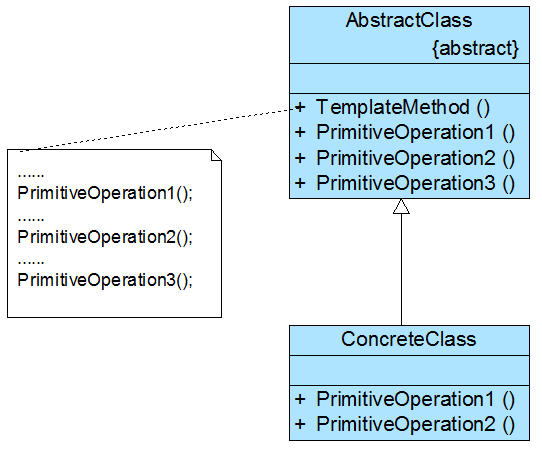
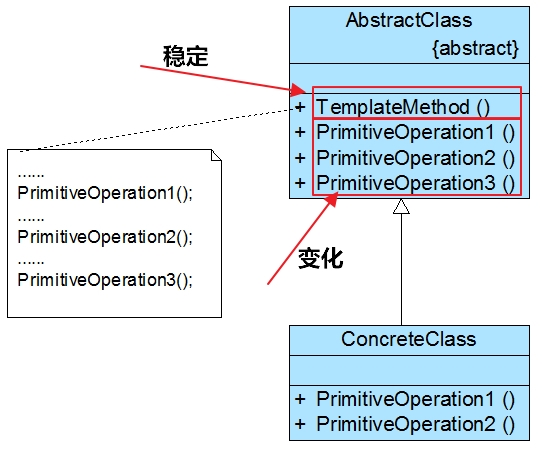
Modified Template Method

diff --git a/DesignPattern/code/13.1_TemplateMethod.cpp b/DesignPattern/code/13.1_TemplateMethod.cpp
@@ -1,0 +1,111 @@
+/*
+ * @Author: your name
+ * @Date: 2020-12-24 22:42:04
+ * @LastEditTime: 2020-12-24 23:05:43
+ * @LastEditors: Please set LastEditors
+ * @Description: In User Settings Edit
+ */
+#include <iostream>
+#include <stdlib.h>
+
+using namespace std;
+
+/**
+ * The Abstract Class defines a template method that contains a skeleton of some
+ * algorithm, composed of calls to (usually) abstract primitive operations.
+ *
+ * Concrete subclasses should implement these operations, but leave the template
+ * method itself intact.
+ */
+class AbstractClass {
+  /**
+   * The template method defines the skeleton of an algorithm.
+   */
+ public:
+  void TemplateMethod() const {
+    this->BaseOperation1();
+    this->RequiredOperations1();
+    this->BaseOperation2();
+    this->Hook1();
+    this->RequiredOperation2();
+    this->BaseOperation3();
+    this->Hook2();
+  }
+  /**
+   * These operations already have implementations.
+   */
+ protected:
+  void BaseOperation1() const {
+    std::cout << "AbstractClass says: I am doing the bulk of the work\n";
+  }
+  void BaseOperation2() const {
+    std::cout << "AbstractClass says: But I let subclasses override some operations\n";
+  }
+  void BaseOperation3() const {
+    std::cout << "AbstractClass says: But I am doing the bulk of the work anyway\n";
+  }
+  /**
+   * These operations have to be implemented in subclasses.
+   */
+  virtual void RequiredOperations1() const = 0;
+  virtual void RequiredOperation2() const = 0;
+  /**
+   * These are "hooks." Subclasses may override them, but it's not mandatory
+   * since the hooks already have default (but empty) implementation. Hooks
+   * provide additional extension points in some crucial places of the
+   * algorithm.
+   */
+  virtual void Hook1() const {}
+  virtual void Hook2() const {}
+};
+/**
+ * Concrete classes have to implement all abstract operations of the base class.
+ * They can also override some operations with a default implementation.
+ */
+class ConcreteClass1 : public AbstractClass {
+ protected:
+  void RequiredOperations1() const override {
+    std::cout << "ConcreteClass1 says: Implemented Operation1\n";
+  }
+  void RequiredOperation2() const override {
+    std::cout << "ConcreteClass1 says: Implemented Operation2\n";
+  }
+};
+/**
+ * Usually, concrete classes override only a fraction of base class' operations.
+ */
+class ConcreteClass2 : public AbstractClass {
+ protected:
+  void RequiredOperations1() const override {
+    std::cout << "ConcreteClass2 says: Implemented Operation1\n";
+  }
+  void RequiredOperation2() const override {
+    std::cout << "ConcreteClass2 says: Implemented Operation2\n";
+  }
+  void Hook1() const override {
+    std::cout << "ConcreteClass2 says: Overridden Hook1\n";
+  }
+};
+/**
+ * The client code calls the template method to execute the algorithm. Client
+ * code does not have to know the concrete class of an object it works with, as
+ * long as it works with objects through the interface of their base class.
+ */
+void ClientCode(AbstractClass *class_) {
+  // ...
+  class_->TemplateMethod();
+  // ...
+}
+
+int main() {
+  std::cout << "Same client code can work with different subclasses:\n";
+  ConcreteClass1 *concreteClass1 = new ConcreteClass1;
+  ClientCode(concreteClass1);
+  std::cout << "\n";
+  std::cout << "Same client code can work with different subclasses:\n";
+  ConcreteClass2 *concreteClass2 = new ConcreteClass2;
+  ClientCode(concreteClass2);
+  delete concreteClass1;
+  delete concreteClass2;
+  return 0;
+}

diff --git a/DesignPattern/code/13_Template.cpp b/DesignPattern/code/13_Template.cpp
@@ -1,13 +1,13 @@
 /*
  * @Author: JohnJeep
  * @Date: 2020-09-16 11:39:23
- * @LastEditTime: 2020-09-16 12:07:19
+ * @LastEditTime: 2020-12-24 22:59:20
  * @LastEditors: Please set LastEditors
  * @Description: 模板模式：父类的抽象类定义方法，在子类中去实现
  * 
   */
-#include <iostream>
 #include <cstdio>
+#include <iostream>
 
 using namespace std;
 
@@ -18,10 +18,16 @@ private:
 public:
     AbstactAnimal(/* args */) {}
     virtual ~AbstactAnimal() {}
+
+    // 可变的部分，需要子类中实现
     virtual void flying() = 0;
     virtual void running() = 0;
 
-    void action()   // 模板函数把业务结点确定好了
+    /**
+   * The template method defines the skeleton of an algorithm.
+   *  stable part.
+   */
+    void action() // 模板函数把业务结点确定好了
     {
         flying();
         running();
@@ -35,6 +41,7 @@ private:
 public:
     Bird(/* args */) {}
     ~Bird() {}
+
     virtual void flying()
     {
         cout << "I am bird, I am flying" << endl;
@@ -42,7 +49,7 @@ public:
     virtual void running()
     {
         cout << "I am bird, I am running" << endl;
-    }    
+    }
 };
 
 class Mammal : public AbstactAnimal
@@ -52,6 +59,7 @@ private:
 public:
     Mammal(/* args */) {}
     ~Mammal() {}
+
     virtual void running()
     {
         cout << "I am lion, I am running" << endl;
@@ -59,19 +67,18 @@ public:
     virtual void flying()
     {
         cout << "I am lion, I am flying" << endl;
-    }    
+    }
 };
 
 int main(int argc, char *argv[])
 {
-    AbstactAnimal* parrot = new Bird;
-    parrot->action();   // 直接调用抽象类中的模板函数
+    AbstactAnimal *parrot = new Bird;
+    parrot->action(); // 直接调用抽象类中的模板函数
     delete parrot;
 
-    AbstactAnimal* lion = new Mammal;
+    AbstactAnimal *lion = new Mammal;
     lion->action();
     delete lion;
 
-    
     return 0;
 }

diff --git a/DesignPattern/DesignPattern.md b/DesignPattern/DesignPattern.md
@@ -1,14 +1,14 @@
 <!--
  * @Author: JohnJeep
  * @Date: 2020-08-06 22:20:12
- * @LastEditTime: 2020-12-22 22:00:19
+ * @LastEditTime: 2020-12-24 22:53:52
  * @LastEditors: Please set LastEditors
  * @Description: 设计模式学习
 -->
 <!-- TOC -->
 
 - [0.1. 参考](#01-参考)
-- [0.2. 思考](#02-思考)
+- [## 0.2. 思考](#-02-思考)
 - [0.3. 设计模式概括](#03-设计模式概括)
 - [0.4. 设计模式原则](#04-设计模式原则)
 - [0.5. 创建型模式](#05-创建型模式)
@@ -43,6 +43,8 @@
 ## 0.1. 参考
 - [Wiki解释设计模式](https://en.wikipedia.org/wiki/Software_design_pattern)：具有权威性和系统性。
 - [设计模式：可复用面向对象软件的基础](https://en.wikipedia.org/wiki/Design_Patterns)：Wiki中关于GOF这本设计模式数据的描述，很有权威性。
+- [GoF Design Patterns reference](http://w3sdesign.com/index0100.php): Learning Object-Oriented Design & Programming。
+- [Design Patterns](https://refactoring.guru/design-patterns): 这是一本关于设计模式及其背后原则的电子书籍。比较详细的介绍了设计模式的用法，很通俗易懂。
 - [史上最全设计模式导学目录（完整版）](https://blog.csdn.net/lovelion/article/details/17517213)：推荐指数五颗星；刘伟老师力作，讲的非常好，通俗易懂，而且举例的应用场景也非常恰当。
 - [图说设计模式](https://design-patterns.readthedocs.io/zh_CN/latest/#) 推荐指数四颗星；利用许多的图例去描述每一种设计模式的过程，值得参考学习。
 - [Github: 学习并理解 23 种设计模式](https://github.com/xietao3/Study-Plan/tree/master/DesignPatterns) 推荐指数四颗星；Github上笔者记录自己学习设计模式的笔记。
@@ -53,17 +55,19 @@
 
 
 ## 0.2. 思考
-Elements of Reusable Object-Oriented Software(可复用面向对象软件)
+---------------
+* Elements of Reusable Object-Oriented Software(可复用面向对象软件)
+* 只有理解了模式，你才能清楚代码中的运行时刻结构。
+* 建立一套思维和一套模型
+* 设计模式：在变化和稳定中寻找一个平衡点。
 
-只有理解了模式，你才能清楚代码中的运行时刻结构。
-
-建立一套思维和一套模型
+---------------
 
 
 1. 设计模式是做什么的？
 2. 它的基本原理和意图是什么？
 3. 它解决的是什么样的特定设计问题？
-4. 什么情况下可以使用该设计模式？
+4. 什么时候、什么地方去使用该设计模式？
 5. 该设计模式可用来改良哪些不良的设计？
 6. 你怎样识别这些情况？
 7. 参与者：设计模式中的类或对象以及它们各自的职责？
@@ -450,12 +454,16 @@ Elements of Reusable Object-Oriented Software(可复用面向对象软件)
 
 ## 0.7. 行为型模式
 ### 0.7.1. **模板方法模式(Template Method)**
-- 什么是 Template Method？
-  > 定义一个操作中算法的框架，而将一些步骤延迟到子类中。模板方法模式使得子类可以不改变一个算法的结构即可重定义该算法的某些特定步骤。
+- 参考
+  - [Six common uses of the Template Design Pattern: Design Pattern series](https://www.codeproject.com/Articles/307452/common-use-of-Template-Design-pattern-Design-pat)
+
 
 
 - 模板模式概述
   >  模板方法模式是最简单的行为型设计模式，在其结构中只存在父类与子类之间的继承关系。通过使用模板方法模式，可以将一些复杂流程的实现步骤封装在一系列基本方法中，在抽象父类中提供一个称之为模板方法的方法来定义这些基本方法的执行次序，而通过其子类来覆盖某些步骤，从而使得相同的算法框架可以有不同的执行结果。模板方法模式提供了一个模板方法来定义算法框架，而某些具体步骤的实现可以在其子类中完成。
+
+- 什么是 Template Method？
+  > 定义一个操作中算法的框架，而将一些步骤延迟到子类中。模板方法模式使得子类可以不改变一个算法的结构即可重定义（override: 重写）该算法的某些特定步骤。延迟：子类实现父类的虚函数
 
 
 - UML图
@@ -470,6 +478,7 @@ Elements of Reusable Object-Oriented Software(可复用面向对象软件)
 
 - 缺点
   - 需要为每一个基本方法的不同实现提供一个子类，如果父类中可变的基本方法太多，将会导致类的个数增加，系统更加庞大，设计也更加抽象，此时，可结合桥接模式来进行设计。
+
 
 - 应用场景
   - (1) 对一些复杂的算法进行分割，将其算法中固定不变的部分设计为模板方法和父类具体方法，而一些可以改变的细节由其子类来实现。即：一次性实现一个算法的不变部分，并将可变的行为留给子类来实现。
